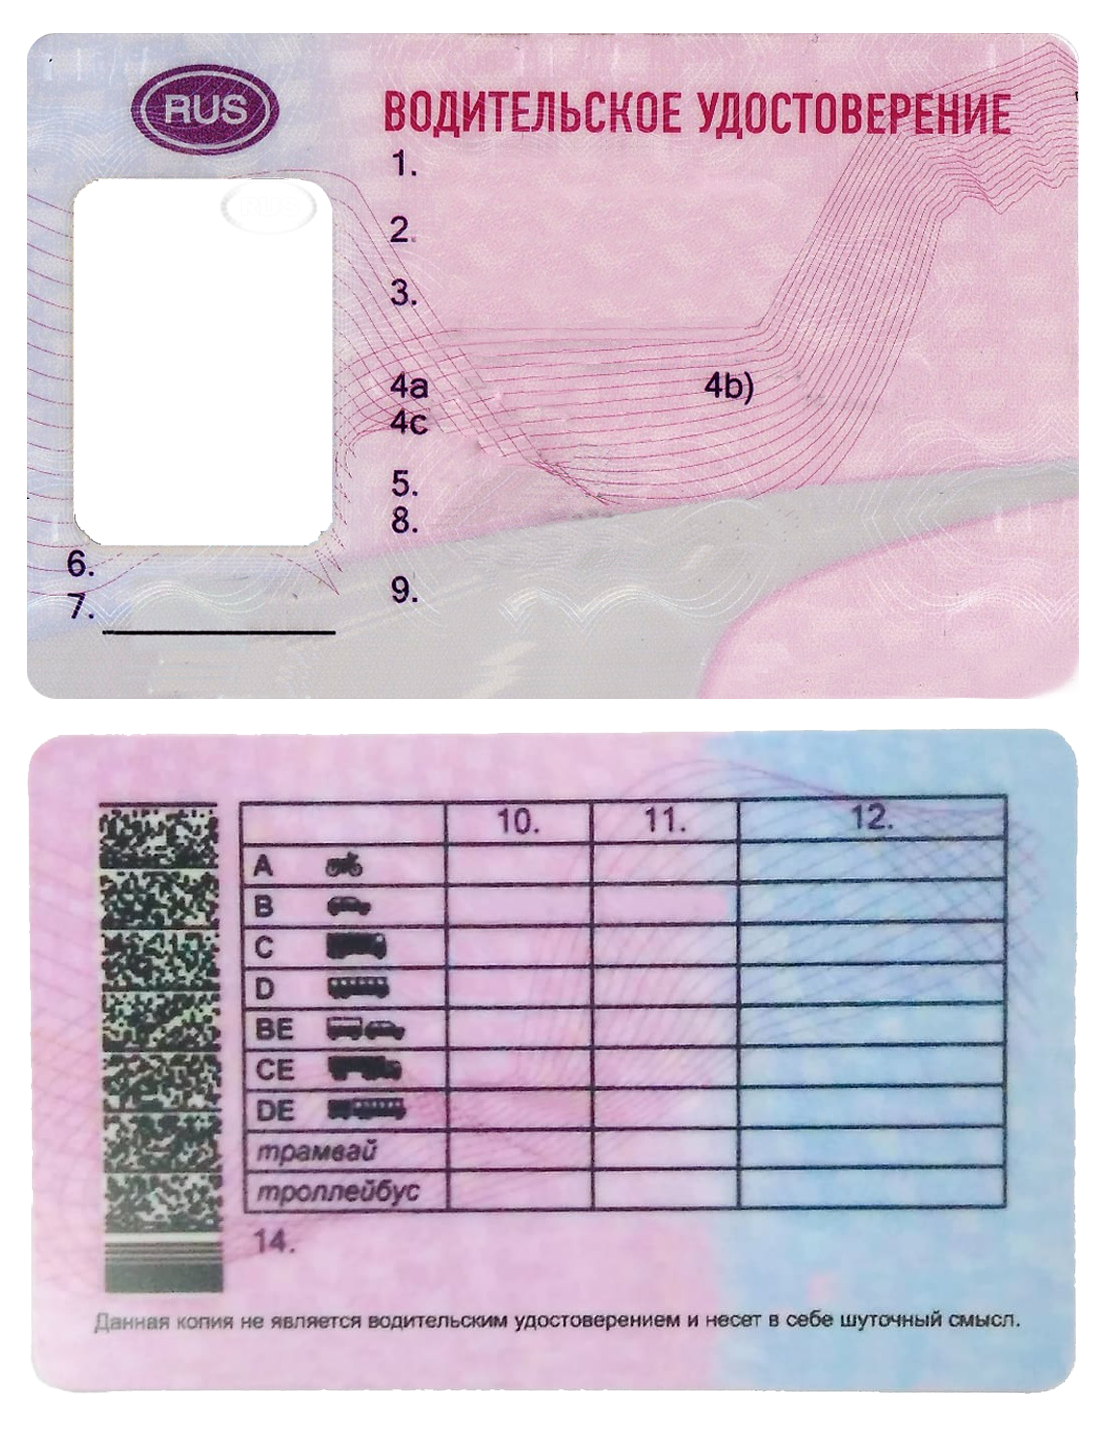
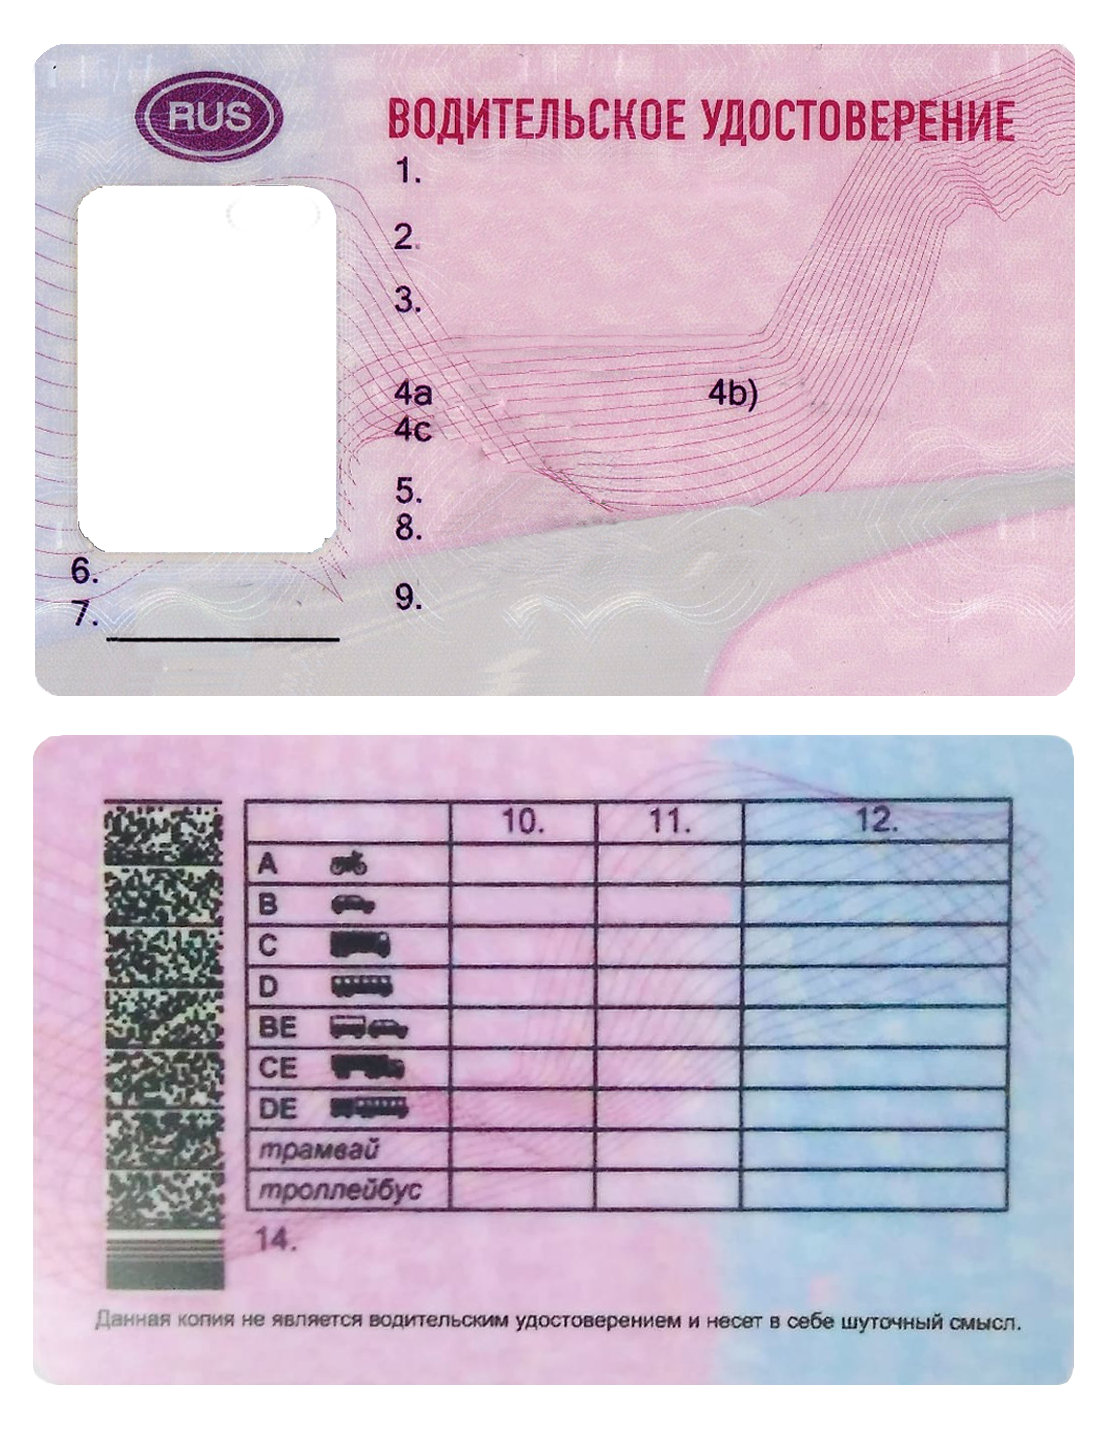
дописать категори

diff --git a/License/Properties/Resources.Designer.cs b/License/Properties/Resources.Designer.cs
@@ -63,9 +63,89 @@ namespace License.Properties {
         /// <summary>
         ///   Поиск локализованного ресурса типа System.Drawing.Bitmap.
         /// </summary>
+        internal static System.Drawing.Bitmap A {
+            get {
+                object obj = ResourceManager.GetObject("A", resourceCulture);
+                return ((System.Drawing.Bitmap)(obj));
+            }
+        }
+        
+        /// <summary>
+        ///   Поиск локализованного ресурса типа System.Drawing.Bitmap.
+        /// </summary>
         internal static System.Drawing.Bitmap AllLicens {
             get {
                 object obj = ResourceManager.GetObject("AllLicens", resourceCulture);
+                return ((System.Drawing.Bitmap)(obj));
+            }
+        }
+        
+        /// <summary>
+        ///   Поиск локализованного ресурса типа System.Drawing.Bitmap.
+        /// </summary>
+        internal static System.Drawing.Bitmap AllLicens2 {
+            get {
+                object obj = ResourceManager.GetObject("AllLicens2", resourceCulture);
+                return ((System.Drawing.Bitmap)(obj));
+            }
+        }
+        
+        /// <summary>
+        ///   Поиск локализованного ресурса типа System.Drawing.Bitmap.
+        /// </summary>
+        internal static System.Drawing.Bitmap B {
+            get {
+                object obj = ResourceManager.GetObject("B", resourceCulture);
+                return ((System.Drawing.Bitmap)(obj));
+            }
+        }
+        
+        /// <summary>
+        ///   Поиск локализованного ресурса типа System.Drawing.Bitmap.
+        /// </summary>
+        internal static System.Drawing.Bitmap BE {
+            get {
+                object obj = ResourceManager.GetObject("BE", resourceCulture);
+                return ((System.Drawing.Bitmap)(obj));
+            }
+        }
+        
+        /// <summary>
+        ///   Поиск локализованного ресурса типа System.Drawing.Bitmap.
+        /// </summary>
+        internal static System.Drawing.Bitmap C {
+            get {
+                object obj = ResourceManager.GetObject("C", resourceCulture);
+                return ((System.Drawing.Bitmap)(obj));
+            }
+        }
+        
+        /// <summary>
+        ///   Поиск локализованного ресурса типа System.Drawing.Bitmap.
+        /// </summary>
+        internal static System.Drawing.Bitmap CE {
+            get {
+                object obj = ResourceManager.GetObject("CE", resourceCulture);
+                return ((System.Drawing.Bitmap)(obj));
+            }
+        }
+        
+        /// <summary>
+        ///   Поиск локализованного ресурса типа System.Drawing.Bitmap.
+        /// </summary>
+        internal static System.Drawing.Bitmap D {
+            get {
+                object obj = ResourceManager.GetObject("D", resourceCulture);
+                return ((System.Drawing.Bitmap)(obj));
+            }
+        }
+        
+        /// <summary>
+        ///   Поиск локализованного ресурса типа System.Drawing.Bitmap.
+        /// </summary>
+        internal static System.Drawing.Bitmap DE {
+            get {
+                object obj = ResourceManager.GetObject("DE", resourceCulture);
                 return ((System.Drawing.Bitmap)(obj));
             }
         }

diff --git a/License/PhotoProccesing.cs b/License/PhotoProccesing.cs
@@ -13,7 +13,7 @@ namespace License
    public class PhotoProccesing
     {
         private Bitmap Photo;
-        private Bitmap License= Properties.Resources.AllLicens;
+        private Bitmap License= Properties.Resources.AllLicens2;
         private Bitmap Result;
 
         private int SizeHeight = 470;
@@ -33,17 +33,17 @@ namespace License
             Graphics graphics = Graphics.FromImage(Result);
             graphics.CompositingMode = CompositingMode.SourceOver;
             graphics.DrawImage(License, 0, 0);
-            graphics.DrawImage(Photo, 120, 230, Photo.Width, Photo.Height);
-            graphics.DrawString(FullName.ToUpper(), new Font("Aria",34,FontStyle.Bold), new SolidBrush(Color.Black),700, 180);//2
-            graphics.DrawString(FirstName.ToUpper(), new Font("Aria", 34, FontStyle.Bold), new SolidBrush(Color.Black), 700, 265);//1
+            graphics.DrawImage(Photo, 120, 240, Photo.Width, Photo.Height);
+            graphics.DrawString(FullName.ToUpper(), new Font("Aria",34,FontStyle.Bold), new SolidBrush(Color.Black),700, 187);//2
+            graphics.DrawString(FirstName.ToUpper(), new Font("Aria", 34, FontStyle.Bold), new SolidBrush(Color.Black), 700, 267);//1
 
-            graphics.DrawString(DateOfBrith.ToShortDateString(), new Font("Aria", 34, FontStyle.Bold), new SolidBrush(Color.Black), 700, 350);//3
-            graphics.DrawString(DateOfBrith.ToShortDateString(), new Font("Aria", 34, FontStyle.Bold), new SolidBrush(Color.Black), 715, 470);//4a
-            graphics.DrawString(DateOfBrith.ToShortDateString(), new Font("Aria", 34, FontStyle.Bold), new SolidBrush(Color.Black), 1255, 470);//4b
-            graphics.DrawString("ГИБДД", new Font("Aria", 34, FontStyle.Bold), new SolidBrush(Color.Black), 715, 515);//4c
+            graphics.DrawString(DateOfBrith.ToShortDateString(), new Font("Aria", 34, FontStyle.Bold), new SolidBrush(Color.Black), 700, 357);//3
+            graphics.DrawString(DateOfBrith.ToShortDateString(), new Font("Aria", 34, FontStyle.Bold), new SolidBrush(Color.Black), 715, 477);//4a
+            graphics.DrawString(DateOfBrith.ToShortDateString(), new Font("Aria", 34, FontStyle.Bold), new SolidBrush(Color.Black), 1255, 477);//4b
+            graphics.DrawString("ГИБДД", new Font("Aria", 34, FontStyle.Bold), new SolidBrush(Color.Black), 715, 522);//4c
 
-            graphics.DrawString(Series.ToUpper(), new Font("Aria", 34, FontStyle.Bold), new SolidBrush(Color.Black), 700, 590);//5
-            graphics.DrawString(area.ToUpper(), new Font("Aria", 34, FontStyle.Bold), new SolidBrush(Color.Black), 700, 640);//8
+            graphics.DrawString(Series.ToUpper(), new Font("Aria", 34, FontStyle.Bold), new SolidBrush(Color.Black), 700, 597);//5
+            graphics.DrawString(area.ToUpper(), new Font("Aria", 34, FontStyle.Bold), new SolidBrush(Color.Black), 700, 647);//8
 
 
             Result.Save("buk.jpeg", ImageFormat.Jpeg);

diff --git a/Child's Programm/Form1.Designer.cs b/Child's Programm/Form1.Designer.cs
@@ -288,7 +288,6 @@ namespace Child_s_Programm
             // 
             // pictureBox1
             // 
-            this.pictureBox1.Image = global::Child_s_Programm.Properties.Resources.flag_sRussia;
             this.pictureBox1.Location = new System.Drawing.Point(23, 82);
             this.pictureBox1.Name = "pictureBox1";
             this.pictureBox1.Size = new System.Drawing.Size(161, 236);
